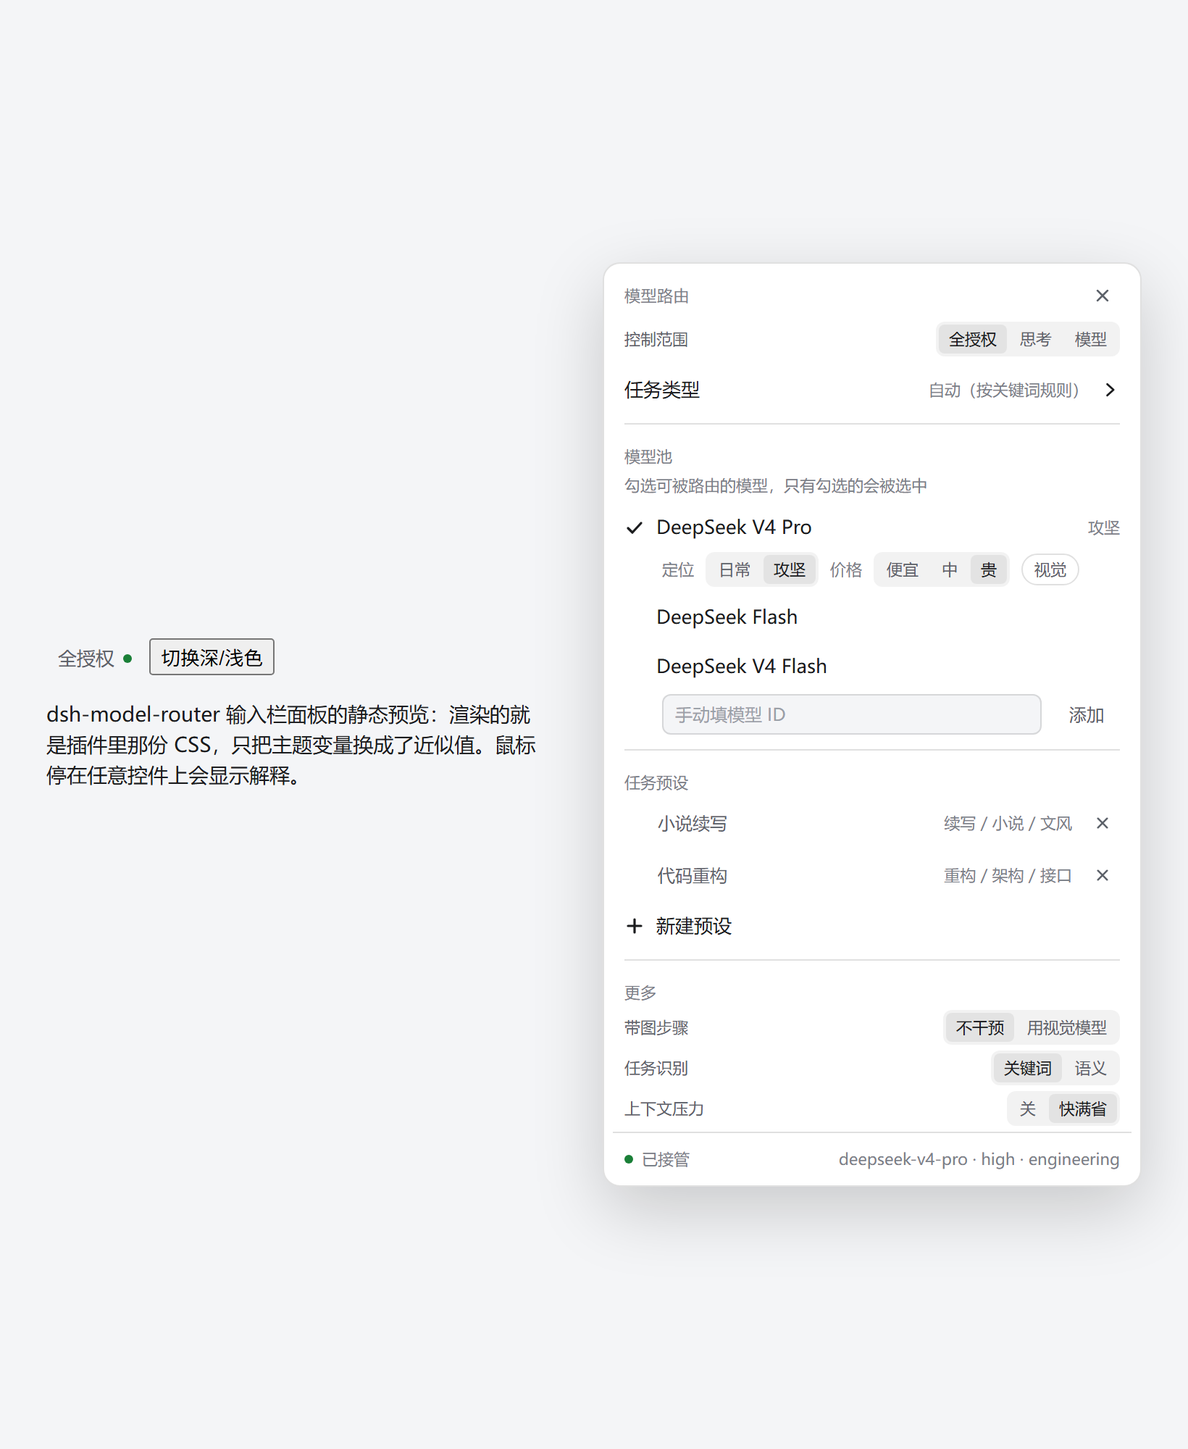
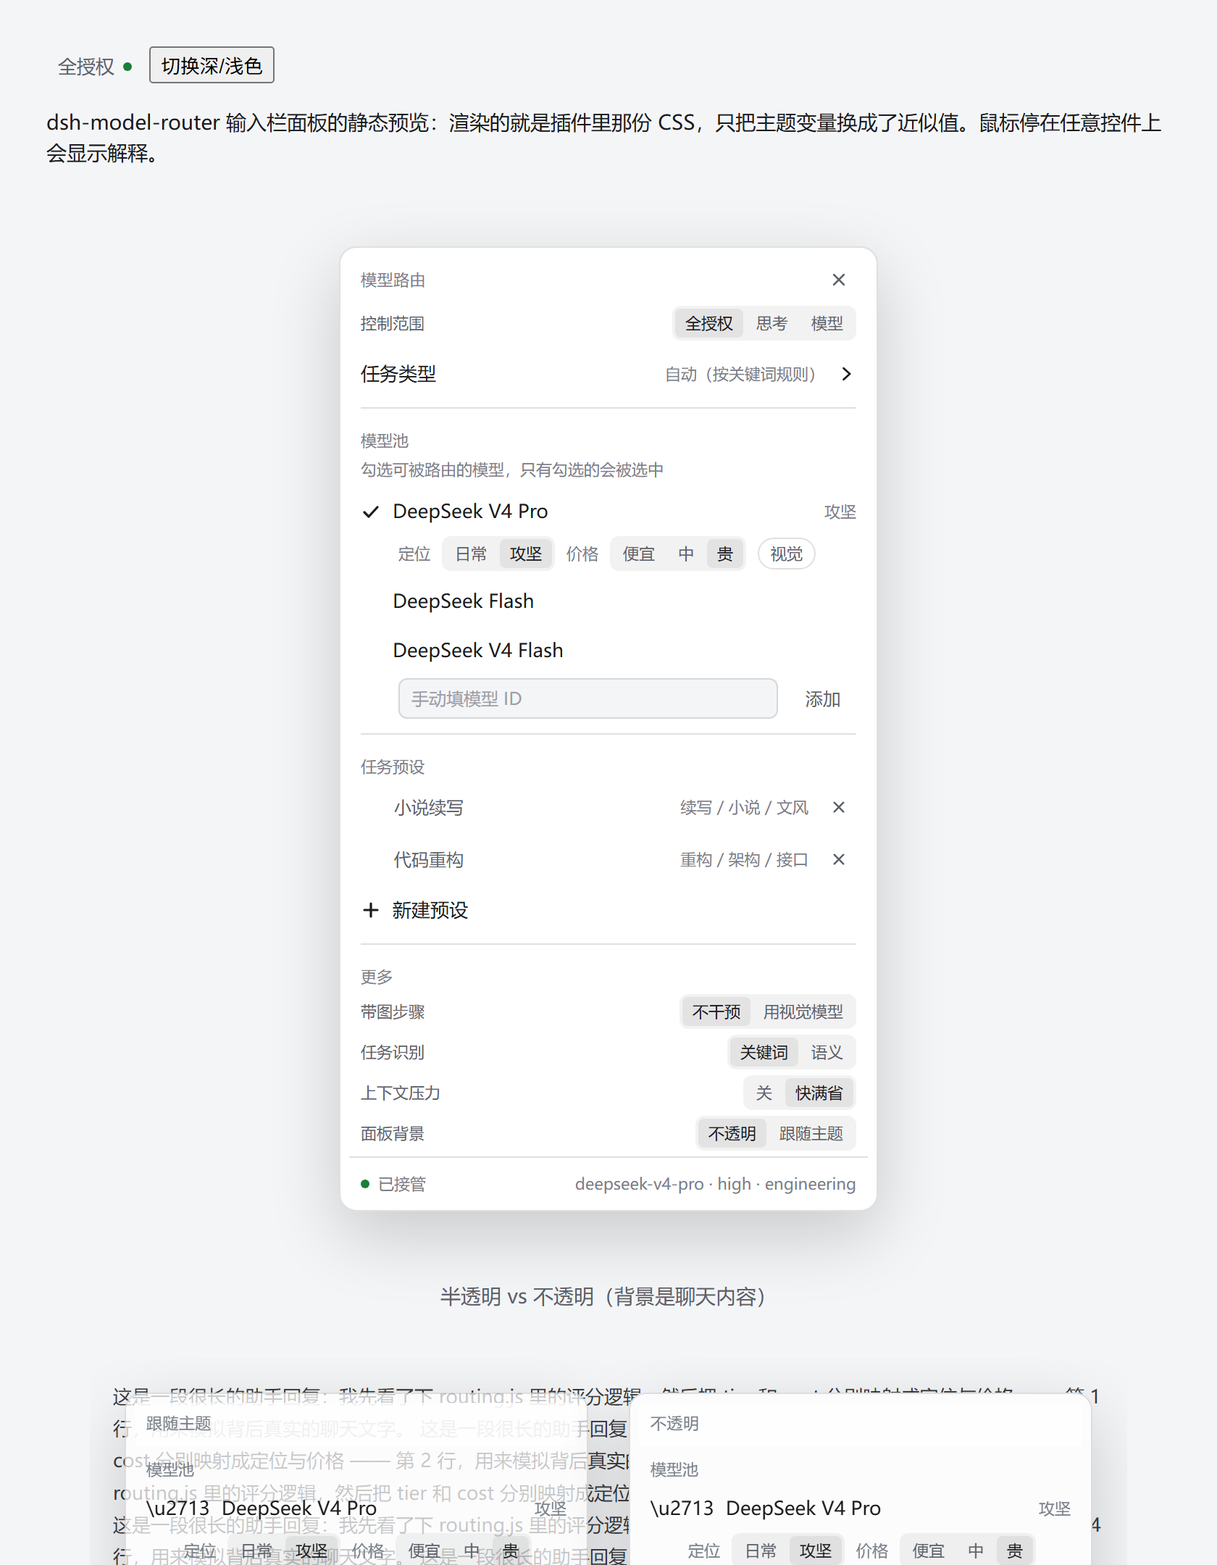
fix(ui): make the panel readable over the conversation (0.6.6)
The theme's menu colour (--dsw-specific-menu) is translucent, so the conversation
showed through the panel and the text was hard to read.

- the panel measures that colour plus --dsw-alias-bg-base, composes them, and paints
  an opaque surface by default
- 更多 -> 面板背景 switches between 不透明 and 跟随主题 (translucent menu colour plus a
  22px backdrop blur); the choice persists as the panelBg setting
- the sticky header inherits the panel surface instead of re-painting a translucent one
- docs/preview-background.png shows both surfaces over a busy conversation background,
  embedded in both READMEs; 77 tests

diff --git a/docs/ui-preview.html b/docs/ui-preview.html
@@ -25,9 +25,10 @@
   --dsw-elevation-prominent:0 16px 48px rgba(0,0,0,.18);--dsw-alias-scrollbar-bg-l2:rgba(0,0,0,.16);
 }
 *{box-sizing:border-box}
-body{margin:0;min-height:100vh;display:flex;gap:40px;align-items:center;justify-content:center;
+body{margin:0;min-height:100vh;display:flex;flex-direction:column;align-items:center;justify-content:flex-start;
   background:var(--dsw-alias-bg-base);color:var(--dsw-alias-label-primary);
   font:14px/1.5 system-ui,"Segoe UI",-apple-system,sans-serif;padding:32px}
+.main{display:flex;gap:40px;align-items:center;justify-content:center;flex-wrap:wrap}
 .mr-trigger{display:inline-flex;align-items:center;gap:6px;height:28px;padding:0 8px;border:0;border-radius:var(--dsw-radius-sm,6px);background:0 0;color:var(--dsw-alias-label-secondary,#a2a8b0);font:inherit;font-size:13px;line-height:20px;cursor:pointer;transition:background .12s,color .12s}
 .mr-trigger:hover{background:var(--dsw-alias-interactive-bg-hover,rgba(127,127,127,.14));color:var(--dsw-alias-label-primary,#e8e8ea)}
 .mr-dot{width:6px;height:6px;border-radius:50%;flex:none;background:var(--dsw-alias-state-success-primary,#3fb950)}
@@ -74,6 +75,7 @@ body{margin:0;min-height:100vh;display:flex;gap:40px;align-items:center;justify-
 </style>
 </head>
 <body>
+<div class="main">
 <div class="wrap">
   <button class="mr-trigger" type="button">全授权 <span class="mr-dot" data-yielded="false"></span></button>
   <button class="toggle" type="button" onclick="var r=document.documentElement;r.dataset.theme=r.dataset.theme==='dark'?'light':'dark'">切换深/浅色</button>
@@ -101,8 +103,79 @@ body{margin:0;min-height:100vh;display:flex;gap:40px;align-items:center;justify-
   <div class="mr-line" style="padding:2px 8px"><span class="mr-name" title="带图步骤：不干预 = 按普通规则；用视觉模型 = 强制走带视觉标记的模型">带图步骤</span><div class="mr-seg" title="不干预 = 按普通规则；用视觉模型 = 强制走带视觉标记的模型"><button data-active="true" title="按普通规则">不干预</button><button title="强制走带视觉标记的模型">用视觉模型</button></div></div>
   <div class="mr-line" style="padding:2px 8px"><span class="mr-name" title="关键词 = 按预设里的 match；语义 = 每轮一次小模型判断">任务识别</span><div class="mr-seg" title="关键词 = 按预设里的 match；语义 = 每轮一次小模型判断"><button data-active="true" title="按预设里的 match 匹配">关键词</button><button title="每轮一次小模型判断">语义</button></div></div>
   <div class="mr-line" style="padding:2px 8px"><span class="mr-name" title="上下文压力：快满时优先用便宜模型">上下文压力</span><div class="mr-seg" title="快满时优先用便宜模型"><button title="不参与判断">关</button><button data-active="true" title="上下文快满时优先便宜模型">快满省</button></div></div>
+  <div class="mr-line" style="padding:2px 8px"><span class="mr-name" title="半透明的主题菜单色会让背后的聊天内容透上来">面板背景</span><div class="mr-seg" title="选「不透明」最好读；选「跟随主题」会加毛玻璃模糊"><button data-active="true" title="用主题底色算出不透明色，文字最清楚">不透明</button><button title="沿用主题的半透明菜单色，再加背景模糊">跟随主题</button></div></div>
   <div class="mr-foot"><span class="mr-dot" data-yielded="false"></span><span>已接管</span><span class="mr-name" style="text-align:right">deepseek-v4-pro · high · engineering</span></div>
 </div>
 <script>if (location.hash === "#light") document.documentElement.dataset.theme = "light"</script>
+
+</div>
+<h2 style="margin:48px 0 8px;font-size:14px;color:var(--dsw-alias-label-secondary);font-weight:500">半透明 vs 不透明（背景是聊天内容）</h2>
+<div class="busywrap" id="busy">
+  <div class="busytext" id="busytext"></div>
+  <div class="panels">
+    <div class="mr-panel demo" data-bg="theme">
+      <div class="mr-head"><span class="mr-name">跟随主题</span></div>
+      <div class="mr-group">模型池</div>
+      <div class="mr-row" data-static="true"><span class="mr-check">&#10003;</span><span class="mr-name">DeepSeek V4 Pro</span><span class="mr-sub">攻坚</span></div>
+      <div class="mr-line" style="padding:0 8px 4px 34px"><span class="mr-tag">定位</span><div class="mr-seg"><button>日常</button><button data-active="true">攻坚</button></div><span class="mr-tag">价格</span><div class="mr-seg"><button>便宜</button><button>中</button><button data-active="true">贵</button></div></div>
+      <div class="mr-row" data-static="true"><span class="mr-check"></span><span class="mr-name">DeepSeek Flash</span></div>
+      <div class="mr-foot"><span class="mr-dot"></span><span>已接管</span><span class="mr-name" style="text-align:right">deepseek-v4-pro · high</span></div>
+    </div>
+    <div class="mr-panel demo" data-bg="solid" id="solidDemo">
+      <div class="mr-head"><span class="mr-name">不透明</span></div>
+      <div class="mr-group">模型池</div>
+      <div class="mr-row" data-static="true"><span class="mr-check">&#10003;</span><span class="mr-name">DeepSeek V4 Pro</span><span class="mr-sub">攻坚</span></div>
+      <div class="mr-line" style="padding:0 8px 4px 34px"><span class="mr-tag">定位</span><div class="mr-seg"><button>日常</button><button data-active="true">攻坚</button></div><span class="mr-tag">价格</span><div class="mr-seg"><button>便宜</button><button>中</button><button data-active="true">贵</button></div></div>
+      <div class="mr-row" data-static="true"><span class="mr-check"></span><span class="mr-name">DeepSeek Flash</span></div>
+      <div class="mr-foot"><span class="mr-dot"></span><span>已接管</span><span class="mr-name" style="text-align:right">deepseek-v4-pro · high</span></div>
+    </div>
+  </div>
+</div>
+<style>
+.busywrap{position:relative;margin:24px auto 0;padding:24px;overflow:hidden;border-radius:12px;max-width:900px}
+:root[data-theme="dark"] .busywrap{--dsw-specific-menu:rgba(35,35,38,.72);--dsw-alias-bg-base:#1b1b1e}
+:root[data-theme="light"] .busywrap{--dsw-specific-menu:rgba(255,255,255,.72);--dsw-alias-bg-base:#f4f5f7}
+.busytext{position:absolute;inset:0;padding:16px;color:var(--dsw-alias-label-primary);opacity:.85;font-size:13px;line-height:1.7;pointer-events:none}
+.panels{position:relative;display:flex;gap:28px;justify-content:center;flex-wrap:wrap}
+.mr-panel.demo{position:static!important;flex:none!important;max-height:none!important;overflow:visible!important;width:320px}
+</style>
+<script>
+(function () {
+  if (location.hash === "#busy") {
+    var main = document.querySelector(".main");
+    if (main) main.style.display = "none";
+    var title = document.querySelector("h2");
+    if (title) title.style.display = "none";
+  }
+  var lines = [];
+  for (var i = 0; i < 26; i++) {
+    lines.push("这是一段很长的助手回复：我先看了下 routing.js 里的评分逻辑，然后把 tier 和 cost 分别映射成定位与价格 —— 第 " + (i + 1) + " 行，用来模拟背后真实的聊天文字。");
+  }
+  document.getElementById("busytext").textContent = lines.join(" ");
+  // The same measurement the plugin uses: read the theme token, compose it opaque.
+  function read(value) {
+    var probe = document.createElement("div");
+    probe.style.cssText = "position:fixed;left:-9999px;top:0;width:1px;height:1px;background-color:" + value;
+    document.body.appendChild(probe);
+    var raw = getComputedStyle(probe).backgroundColor;
+    document.body.removeChild(probe);
+    return raw;
+  }
+  function parse(raw) {
+    var m = String(raw || "").match(/rgba?\(([^)]+)\)/);
+    if (!m) return null;
+    var parts = m[1].split(",").map(parseFloat);
+    if (parts.length < 3) return null;
+    return { r: parts[0], g: parts[1], b: parts[2], a: parts.length > 3 ? parts[3] : 1 };
+  }
+  var scope = document.getElementById("busy");
+  var token = getComputedStyle(scope).getPropertyValue("--dsw-specific-menu").trim() || "rgba(35,35,38,.72)";
+  var top = parse(read(token));
+  var base = parse(read("var(--dsw-alias-bg-base, #1b1b1e)")) || { r: 27, g: 27, b: 30, a: 1 };
+  var over = function (c, b) { return Math.round(c * top.a + b * (1 - top.a)); };
+  document.getElementById("solidDemo").style.background = "rgb(" + over(top.r, base.r) + "," + over(top.g, base.g) + "," + over(top.b, base.b) + ")";
+})();
+</script>
+
 </body>
 </html>

diff --git a/client/client.js b/client/client.js
@@ -41,6 +41,10 @@ window.__ModuleLoader__.load({
 				imagesHint: "带图步骤：不干预 = 按普通规则；用视觉模型 = 强制走带视觉标记的模型",
 				classifierHint: "任务识别：关键词 = 按预设里的 match；语义 = 每轮一次小模型判断",
 				pressureHint: "上下文压力：快满时优先用便宜模型",
+				bg: "面板背景", bgSolid: "不透明", bgTheme: "跟随主题",
+				bgHint: "半透明的主题菜单色会让背后的聊天内容透上来；选「不透明」最好读，选「跟随主题」会加毛玻璃模糊",
+				bgSolidHint: "用主题底色算出不透明色，文字最清楚",
+				bgThemeHint: "沿用主题的半透明菜单色，再加背景模糊",
 				fullHint: "模型和思考等级都交给插件", effortHint: "只让插件调思考等级，模型不动", modelHint: "只让插件换模型，思考等级不动",
 				presets: "任务预设", newPreset: "新建预设", edit: "编辑", remove: "删除",
 				name: "名称", keywords: "关键词", add: "添加", custom: "自定义词，回车添加",
@@ -69,6 +73,10 @@ window.__ModuleLoader__.load({
 				imagesHint: "image steps: leave alone = normal rules; vision model = force a vision-tagged model",
 				classifierHint: "detection: keywords = the match list in your presets; semantic = one small model call per turn",
 				pressureHint: "context pressure: prefer the cheap model when the window is nearly full",
+				bg: "Panel surface", bgSolid: "opaque", bgTheme: "theme",
+				bgHint: "the theme's menu colour is translucent, so the conversation shows through; opaque is the most readable, theme adds a backdrop blur",
+				bgSolidHint: "compute an opaque colour from the theme base — most readable",
+				bgThemeHint: "keep the translucent menu colour and blur what is behind it",
 				fullHint: "let the router change both model and effort", effortHint: "effort only, never the model", modelHint: "model only, never the effort",
 				presets: "Task presets", newPreset: "New preset", edit: "Edit", remove: "Delete",
 				name: "Name", keywords: "Keywords", add: "Add", custom: "custom word, press enter",
@@ -102,7 +110,8 @@ window.__ModuleLoader__.load({
 			".mr-panel{position:fixed;z-index:2147483000;width:372px;max-height:min(72vh,540px);overflow:auto;padding:6px;border-radius:var(--dsw-radius-lg,12px);background:var(--dsw-specific-menu,#232326);color:var(--dsw-alias-label-primary,#e8e8ea);box-shadow:var(--dsw-elevation-prominent,0 16px 48px rgba(0,0,0,.45));border:1px solid var(--dsw-alias-border-l1,rgba(127,127,127,.22));font-size:13px;line-height:20px;scrollbar-width:thin}",
 			".mr-panel::-webkit-scrollbar{width:8px}",
 			".mr-panel::-webkit-scrollbar-thumb{background:var(--dsw-alias-scrollbar-bg-l2,rgba(127,127,127,.3));border-radius:4px}",
-			".mr-head{position:sticky;top:0;z-index:2;display:flex;align-items:center;gap:6px;padding:4px 8px 6px;background:var(--dsw-specific-menu,#232326);color:var(--dsw-alias-label-tertiary,#8b9096);font-size:11px;letter-spacing:.02em}",
+			".mr-head{position:sticky;top:0;z-index:2;display:flex;align-items:center;gap:6px;padding:4px 8px 6px;background:inherit;color:var(--dsw-alias-label-tertiary,#8b9096);font-size:11px;letter-spacing:.02em}",
+			".mr-panel[data-bg=theme]{-webkit-backdrop-filter:blur(22px) saturate(1.15);backdrop-filter:blur(22px) saturate(1.15)}",
 			".mr-group{color:var(--dsw-alias-label-tertiary,#8b9096);font-size:11px;font-weight:500;line-height:16px;padding:8px 8px 2px}",
 			".mr-row{display:flex;align-items:center;gap:8px;width:100%;min-height:34px;padding:4px 8px;border:0;border-radius:var(--dsw-radius-md,8px);background:0 0;color:inherit;text-align:left;font:inherit;cursor:pointer;transition:background .12s}",
 			".mr-row:hover{background:var(--dsw-alias-interactive-bg-hover,rgba(127,127,127,.14))}",
@@ -149,6 +158,40 @@ window.__ModuleLoader__.load({
 		}
 
 		const EMPTY_CATALOG = { subscribe: () => () => {}, getSnapshot: () => null }
+
+		/**
+		 * The theme's menu colour is usually translucent, which lets the conversation
+		 * show through the panel. Measure it and compose it over the theme's base
+		 * background so the surface can be painted opaque.
+		 */
+		function resolveSolid() {
+			if (typeof document === "undefined" || !document.body) return null
+			const read = (value) => {
+				const probe = document.createElement("div")
+				probe.style.cssText = "position:fixed;left:-9999px;top:0;width:1px;height:1px;background-color:" + value
+				document.body.appendChild(probe)
+				const raw = getComputedStyle(probe).backgroundColor
+				document.body.removeChild(probe)
+				return raw
+			}
+			const parse = (raw) => {
+				const match = String(raw || "").match(/rgba?\(([^)]+)\)/)
+				if (!match) return null
+				const parts = match[1].split(",").map((piece) => parseFloat(piece))
+				if (parts.length < 3 || parts.slice(0, 3).some((n) => Number.isNaN(n))) return null
+				return { r: parts[0], g: parts[1], b: parts[2], a: parts.length > 3 ? parts[3] : 1 }
+			}
+			const top = parse(read("var(--dsw-specific-menu, #232326)"))
+			if (!top) return null
+			if (top.a >= 0.999) return "rgb(" + [top.r, top.g, top.b].join(",") + ")"
+			const base = parse(read("var(--dsw-alias-bg-base, #1b1b1e)")) || { r: 27, g: 27, b: 30, a: 1 }
+			if (base.a < 0.999) {
+				const dark = (top.r + top.g + top.b) / 3 < 128
+				return dark ? "rgb(30,30,33)" : "rgb(250,250,251)"
+			}
+			const over = (channel, baseChannel) => Math.round(channel * top.a + baseChannel * (1 - top.a))
+			return "rgb(" + [over(top.r, base.r), over(top.g, base.g), over(top.b, base.b)].join(",") + ")"
+		}
 
 		async function api(path, options) {
 			const controller = typeof AbortController !== "undefined" ? new AbortController() : undefined
@@ -213,6 +256,7 @@ window.__ModuleLoader__.load({
 			const [editing, setEditing] = react.useState(null)
 			const [customWord, setCustomWord] = react.useState("")
 			const [customModel, setCustomModel] = react.useState("")
+			const [solidBg, setSolidBg] = react.useState(null)
 			const [poolOverride, setPoolOverride] = react.useState(null)
 			const [hostGroups, setHostGroups] = react.useState([])
 			const [catalogStore, setCatalogStore] = react.useState(props && props.resolveCatalog ? props.resolveCatalog() : undefined)
@@ -274,6 +318,7 @@ window.__ModuleLoader__.load({
 						}
 						: null)
 					load()
+					setSolidBg(resolveSolid())
 					if (props && props.resolveCatalog) {
 						const found = props.resolveCatalog()
 						if (found) setCatalogStore(found)
@@ -570,6 +615,18 @@ window.__ModuleLoader__.load({
 							options: [{ value: "rules", label: t.byRules }, { value: "llm", label: t.byLlm }],
 						})
 					))
+					body.push(h("div", { key: "bg", className: "mr-line", style: { padding: "2px 8px" } },
+						h("span", { className: "mr-name", title: t.bgHint }, t.bg),
+						h(Segmented, {
+							title: t.bgHint, disabled: busy,
+							value: settings.panelBg === "theme" ? "theme" : "solid",
+							onChange: (value) => { setSetting({ panelBg: value }); setSolidBg(resolveSolid()) },
+							options: [
+								{ value: "solid", label: t.bgSolid, title: t.bgSolidHint },
+								{ value: "theme", label: t.bgTheme, title: t.bgThemeHint },
+							],
+						})
+					))
 					body.push(h("div", { key: "pressure", className: "mr-line", style: { padding: "2px 8px" } },
 						h("span", { className: "mr-name", title: t.pressureHint }, t.pressure),
 						h(Segmented, {
@@ -592,12 +649,15 @@ window.__ModuleLoader__.load({
 
 				if (error) body.push(h("div", { key: "error", className: "mr-err" }, error))
 
+				const useThemeBg = settings.panelBg === "theme"
 				const panel = h("div", {
 					key: "panel", ref: panelRef, className: "mr-panel",
+					"data-bg": useThemeBg ? "theme" : "solid",
 					style: {
 						bottom: pos ? pos.bottom : 96,
 						right: pos ? pos.right : 24,
 						maxHeight: pos ? pos.maxHeight : "72vh",
+						background: useThemeBg ? undefined : (solidBg || undefined),
 					},
 					onMouseDown: (event) => event.stopPropagation(),
 				}, body)

diff --git a/lib/config.js b/lib/config.js
@@ -33,6 +33,7 @@ export function normalizeRuntimeConfig(input = {}) {
     hysteresis: { ...ROUTING_DEFAULTS.hysteresis, ...(isObject(raw.hysteresis) ? raw.hysteresis : {}) },
     maxPerTask: { ...ROUTING_DEFAULTS.maxPerTask, ...(isObject(raw.maxPerTask) ? raw.maxPerTask : {}) },
     classifier: raw.classifier === 'llm' ? 'llm' : 'rules',
+    panelBg: raw.panelBg === 'theme' ? 'theme' : 'solid',
     presets: isObject(raw.presets) ? raw.presets : {},
     signals: { ...ROUTING_DEFAULTS.signals, ...(isObject(raw.signals) ? raw.signals : {}) },
     subagent: { ...ROUTING_DEFAULTS.subagent, ...(isObject(raw.subagent) ? raw.subagent : {}) },
@@ -61,6 +62,7 @@ export function withSettings(cfg, settings) {
   const next = { ...cfg }
   if (settings.imagePolicy === 'keep' || settings.imagePolicy === 'vision') next.imagePolicy = settings.imagePolicy
   if (settings.classifier === 'rules' || settings.classifier === 'llm') next.classifier = settings.classifier
+  if (settings.panelBg === 'solid' || settings.panelBg === 'theme') next.panelBg = settings.panelBg
   if (isObject(settings.signals)) next.signals = { ...cfg.signals, ...settings.signals }
   if (isObject(settings.subagent)) next.subagent = { ...cfg.subagent, ...settings.subagent }
   return next

diff --git a/test/modes.test.js b/test/modes.test.js
@@ -383,6 +383,17 @@ test('the settings route drives images, classifier and pressure from the UI', as
   assert.equal(state.settings.imagePolicy, 'vision')
   assert.equal(state.settings.classifier, 'llm')
   assert.equal(state.settings.signals.contextPressure, 0)
+  assert.equal(state.settings.panelBg, 'solid')
+
+  const themed = await call(host.routes.get(path), {
+    method: 'POST', url: path, headers: { origin: 'http://localhost', host: 'localhost' },
+    body: { settings: { panelBg: 'theme' } },
+  })
+  assert.equal(themed.status, 200)
+  const after = JSON.parse((await call(host.routes.get('/model-router/state'), {
+    method: 'GET', url: '/model-router/state?sessionId=s1',
+  })).payload)
+  assert.equal(after.settings.panelBg, 'theme')
 })
 
 test('the catalog route lists provider models for the pool UI', async () => {

diff --git a/lib/index.js b/lib/index.js
@@ -674,6 +674,7 @@ export function apply(ctx, config) {
         settings: {
           imagePolicy: cfg.imagePolicy,
           classifier: cfg.classifier,
+          panelBg: cfg.panelBg,
           signals: cfg.signals,
           subagent: cfg.subagent,
         },
@@ -759,6 +760,7 @@ export function apply(ctx, config) {
       store.settings = {
         imagePolicy: cfg.imagePolicy,
         classifier: cfg.classifier,
+        panelBg: cfg.panelBg,
         signals: cfg.signals,
         subagent: cfg.subagent,
       }

diff --git a/lib/routing.js b/lib/routing.js
@@ -73,6 +73,8 @@ export const ROUTING_DEFAULTS = Object.freeze({
   imagePolicy: "keep",
   /** Explicit vision model id; the pool's vision-tagged entries are used when unset. */
   visionModel: null,
+  /** Panel surface: "solid" paints an opaque menu, "theme" keeps the translucent menu colour + blur. */
+  panelBg: "solid",
   /** Model used by the optional LLM task-type classifier. */
   classifierModel: null,
   /** Downgrades need this many consecutive quieter steps before they apply. */

diff --git a/CHANGELOG.md b/CHANGELOG.md
@@ -1,5 +1,20 @@
 # Changelog
 
+## 0.6.6
+
+**The panel is readable now: opaque by default, with a background switch.**
+
+- The theme's menu colour (\`--dsw-specific-menu\`) is translucent, so the conversation
+  showed through the panel and the text was hard to read. The panel now measures that
+  colour plus \`--dsw-alias-bg-base\`, composes them, and paints an **opaque** surface by
+  default instead of the raw menu token.
+- **更多 → 面板背景** switches between 不透明 and 跟随主题 (the translucent menu colour with a
+  22px backdrop blur). It persists like the other settings (\`panelBg\`).
+- The sticky header inherits the panel surface rather than re-painting a translucent one,
+  so scrolled content no longer shows through the title bar.
+- \`docs/preview-background.png\` shows both surfaces over a busy conversation background.
+- 77 tests.
+
 ## 0.6.5
 
 **Plain wording, hover explanations, and the preview ships with the package.**

diff --git a/PUBLISHING.md b/PUBLISHING.md
@@ -72,7 +72,7 @@ model seat.
 
 ## npm
 
-Published: **`@neptune810/dsh-model-router@0.6.5`** (2026-09-29). Earlier releases: 0.6.4, 0.6.3, 0.6.2, 0.6.1, 0.6.0, 0.5.0, 0.4.0, 0.3.0 (2026-09-15).
+Published: **`@neptune810/dsh-model-router@0.6.6`** (2026-09-29). Earlier releases: 0.6.5, 0.6.4, 0.6.3, 0.6.2, 0.6.1, 0.6.0, 0.5.0, 0.4.0, 0.3.0 (2026-09-15).
 Listing does not depend on it —
 the market installs from the repository — but a registry package gives storefronts a download count
 and lets people install without the `github:` spec.

diff --git a/README.md b/README.md
@@ -69,6 +69,9 @@ advertises none.
 
 ![The composer panel in dark mode](docs/preview-dark.png)
 
+Opaque by default (the theme menu colour is translucent, which let the conversation
+show through): ![translucent vs opaque](docs/preview-background.png)
+
 ## The panel matches the host (v0.6.4)
 
 The composer control is styled with the harness's own tokens — the same 34px rows,

diff --git a/README.zh.md b/README.zh.md
@@ -65,6 +65,8 @@ effort 字段。
 
 ![深色模式下的输入栏面板](docs/preview-dark.png)
 
+默认不透明（主题的菜单色本身是半透明，会把背后的聊天内容透上来）：![半透明 vs 不透明](docs/preview-background.png)
+
 ## 全部点一点就能配（v0.6.2）
 
 输入栏那个控件就是完整的配置入口，不需要写 JSON/YAML：
